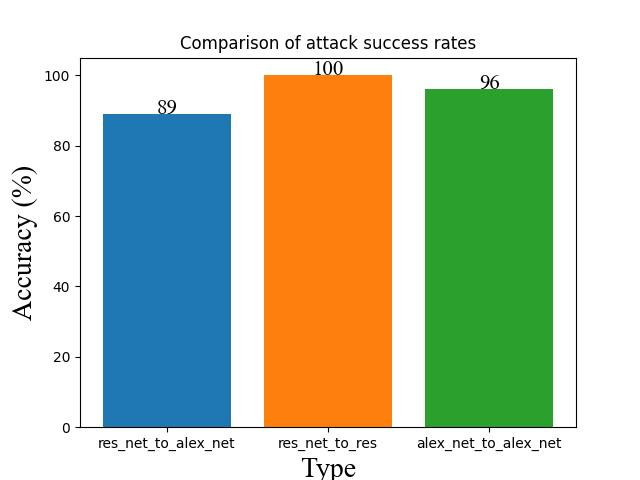
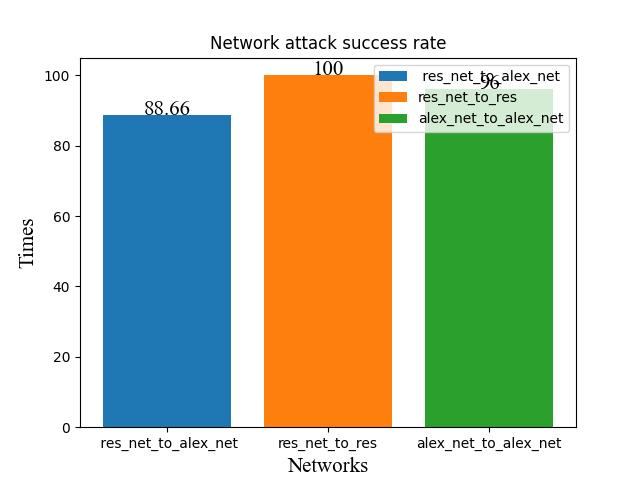
完全代码

diff --git a/venv/direct_disturbances/net_2/net2_predict.py b/venv/direct_disturbances/net_2/net2_predict.py
@@ -1,6 +1,5 @@
 import matplotlib.pyplot as plt
 import numpy as np
-import pylab as pl
 from torchvision import models
 import torchvision
 import torch
@@ -9,9 +8,8 @@ from torchvision import transforms
 from PIL import Image
 import cv2
 import time
-from venv.direct_disturbances.image_process import matrix_to_image
-import torchvision.transforms as T
-import os
+import torch.nn.functional as F
+from torch.autograd import Variable
 
 
 warnings.filterwarnings('ignore')
@@ -33,8 +31,8 @@ transform = transforms.Compose([
 # alexnet.eval()
 
 # 读取类的标签
-with open(r'D:\Note\Test_Net\venv\direct_disturbances\net_2\imagenet_classes.txt') as f:
-  classes = [line.strip()  for line in f.readlines()]
+with open(r'/mnt/test/venv/direct_disturbances/net_2/imagenet_classes.txt') as f:
+  classes = [line.strip() for line in f.readlines()]
 
 classes_final = []
 
@@ -79,7 +77,7 @@ class alexnet:
             self.model.eval()
 
 
-    def predict(self, img, file_name=" ", flag=False, prob=None):
+    def predict(self, img, file_name=" ", flag=False, prob=None, cam=False):
         """
         进行图片检测
         :param img:
@@ -88,13 +86,14 @@ class alexnet:
         :param prob:
         :return:
         """
+        # 进行图像转换和预处理
+        img = Image.fromarray(np.uint8(img))
+        # 进行判断
         if flag:
             plt.imshow(img)
             plt.title(prob[0] + ':' + str(round(prob[1], 2)))
-            plt.savefig(r'/mnt/test/venv/pso/img_out/' + 'successAlex' + time.strftime('%Y-%m-%d %H:%M:%S', time.localtime(time.time())) + '.jpg')
+            plt.savefig(r'/mnt/test/venv/direct_disturbances/img_out/alex/' + time.strftime('%Y-%m-%d %H_%M_%S', time.localtime(time.time())) + '.jpg')
             return
-        # 进行图像转换和预处理
-        img = Image.fromarray(np.uint8(img))
         # print(img)
         img_t = transform(img).cuda()
         batch_t = torch.unsqueeze(img_t, 0)
@@ -104,17 +103,30 @@ class alexnet:
 
         _, index = torch.max(out, 1)
         percentage = torch.nn.functional.softmax(out, dim=1)[0]
+        if cam == False:
+            return classes[index[0]], percentage[index[0]].item()
+        else:
+            return classes[index[0]], percentage[index[0]].item(), index[0]
 
-        return classes[index[0]], percentage[index[0]].item()
+    def generate_cam(self, img, target_class):
+        # 获取目标类别的得分
+        output = self.model(img)
 
-    def draw_cam(self, img_pth):
+        cam = output[0].detach().cpu().numpy()
+
+        return cam
+
+    def draw_cam(self, img_pth, target_class):
         """
         绘制类间激活热图
         :param img_pth:
         :return:
         """
         img = cv2.imread(img_pth)
-        img = cv2.cvtColor(img, cv2.COLOR_BGR2RGB)
+        if img.shape[-1] != 3:
+            img = cv2.cvtColor(img, cv2.COLOR_GRAY2RGB)
+        else:
+            img = cv2.cvtColor(img, cv2.COLOR_BGR2RGB)
         img = cv2.resize(img, (400, 400))
 
         # Preprocess the image
@@ -125,11 +137,8 @@ class alexnet:
         img_tensor = img_tensor.cuda()
         batch_t = torch.unsqueeze(img_tensor, 0)
         # Run the image through the model
-        output = self.model(batch_t)
 
-        # print(output)
-        # Get the class activation map
-        cam = output[0].detach().cpu().numpy()
+        cam = self.generate_cam(batch_t, target_class)
 
         # Resize the CAM to the original image size
         cam = cv2.resize(cam, (img.shape[1], img.shape[0]))
@@ -142,22 +151,22 @@ class alexnet:
         cam = np.uint8(255 * cam)
         cam = cv2.applyColorMap(cam, cv2.COLORMAP_JET)
         # Overlay the CAM on the original image
-        cam = cv2.addWeighted(img, 1, cam, 0.5, 0)
+        cam = cv2.addWeighted(img, 0.5, cam, 0.5, 0)
 
         # Plot the result
-        self.img_path = r'D:\\Note\\Test_Net\\venv\\direct_disturbances\\img_out\\' + time.strftime('%Y-%m-%d %H_%M_%S', time.localtime(time.time())) + '区间热图.jpg'
+        self.img_path = r'/mnt/test/venv/direct_disturbances/img_heat/alex/' + time.strftime('%Y-%m-%d %H_%M_%S', time.localtime(time.time())) + '区间热图.jpg'
         plt.imshow(cam)
-        plt.title("区间热图")
+        plt.title("Interval heat map")
         plt.savefig(self.img_path)
         self.cam = cam
 
-    def get_importance(self, img_pth):
+    def get_importance(self, img_pth, target_class):
         """
         读取类间激活热图，并且获取
         :param img_pth:
         :return:
         """
-        self.draw_cam(img_pth)
+        self.draw_cam(img_pth, target_class)
         # img = cv2.imread(self.img_path)
         img = cv2.resize(self.cam, (400, 400))
 
@@ -173,9 +182,9 @@ if __name__ == '__main__':
     box_net = alexnet()
     pth = r'D:\Note\Test_Net\venv\pso\img'
     img_pth = r'dog.jpg'
-    # img = convertjpg(img_pth)
-    # img = numpy.asarray(img).copy()
-    # box_net.predict(img, file_name=img_pth, flag=True)
+    img = convertjpg(img_pth)
+    img = np.asarray(img).copy()
+    prob = box_net.predict(img, file_name=img_pth, flag=False,cam=True)
     # box_net.draw_cam(img_pth)
     # for file_name in os.listdir(pth):
     #     # print(file_name)
@@ -185,5 +194,5 @@ if __name__ == '__main__':
     #     # img = Image.open(r'mm.jpeg')
     #     img = numpy.asarray(img).copy()
     #     box_net.predict(img,file_name=file_name,flag=True)
-    print(box_net.get_importance('dog.jpg'))
+    print(box_net.get_importance('dog.jpg', target_class=prob[2]))
 

diff --git a/venv/direct_disturbances/net_1/net1_predict.py b/venv/direct_disturbances/net_1/net1_predict.py
@@ -9,6 +9,8 @@ import time
 from torchvision.models.detection.faster_rcnn import FastRCNNPredictor
 import os
 import warnings
+import torch.nn.functional as F
+from torch.autograd import Variable
 
 from torchvision.transforms import transforms
 
@@ -61,7 +63,7 @@ class resnet50:
         else:
             self.model.eval()
 
-    def predict(self, img, file_name = None, threshold=0.2, flag=False, prob = None, rect_th=3, text_size=1, text_th=3):
+    def predict(self, img, file_name=None, threshold=0.2, flag=False, prob=None, cam=False, rect_th=3, text_size=1, text_th=3):
         """
         进行网络识别预测
         :param img:
@@ -100,6 +102,8 @@ class resnet50:
         pred_class = pred_class[:pred_t + 1]
         # print("pred_class:", pred_class)
         # print("pred_boxes:", pred_boxes)
+        if cam:
+            return str(pred_class[0]), max(pred_score), COCO_INSTANCE_CATEGORY_NAMES.index(pred_class[0])
         if flag == False:
             return str(pred_class[0]), max(pred_score)
 
@@ -116,14 +120,20 @@ class resnet50:
         :param text_th:
         :return:
         """
-        image = img.squeeze(0).permute(1, 2, 0).mul(255).clamp(0, 255).cpu().numpy().astype("uint8")
-        plt.imshow(image)
+        # image = img.squeeze(0).permute(1, 2, 0).mul(255).clamp(0, 255).cpu().numpy().astype("uint8")
+        img = Image.fromarray(np.uint8(img))
+        plt.imshow(img)
         plt.title(prob[0] + ':' + str(round(prob[1], 2)))
-        plt.savefig(r'/mnt/test/venv/pso/img_out/' + 'successRes' + time.strftime('%Y-%m-%d %H:%M:%S', time.localtime(time.time())) + '.jpg')
+        plt.savefig(r'/mnt/test/venv/direct_disturbances/img_out/res/' + time.strftime('%Y-%m-%d %H_%M_%S', time.localtime(time.time())) + '.jpg')
         # plt.show()
         return prob
 
-    def draw_cam(self, img_path, transform=None, visual_heatmap=False, out_layer=None):
+    def get_cam(self, img_tensor, target_class):
+        output = self.model([img_tensor])
+        cam = output[0]['boxes'].detach().cpu().numpy()
+        return cam
+
+    def draw_cam(self, img_path, target_class, transform=None, visual_heatmap=False, out_layer=None):
         """
         绘制热力图
         :param model:
@@ -146,12 +156,8 @@ class resnet50:
         img_tensor = transform(img)
         img_tensor = img_tensor.cuda()
 
-        # Run the image through the model
-        output = self.model([img_tensor])
-
-        # print(output)
         # Get the class activation map
-        cam = output[0]['boxes'].detach().cpu().numpy()
+        cam = self.get_cam(img_tensor, target_class)
 
         # Resize the CAM to the original image size
         cam = cv2.resize(cam, (img.shape[1], img.shape[0]))
@@ -165,20 +171,22 @@ class resnet50:
         cam = cv2.applyColorMap(cam, cv2.COLORMAP_JET)
         # Overlay the CAM on the original image
         cam = cv2.addWeighted(img, 0.5, cam, 0.5, 0)
+        self.cam = cam
+
         # Plot the result
-        self.img_path = r'D:\\Note\\Test_Net\\venv\\direct_disturbances\\img_out\\' + time.strftime('%Y-%m-%d %H_%M_%S', time.localtime(time.time())) + '区间热图.jpg'
+        self.img_path = r'/mnt/test/venv/direct_disturbances/img_heat/res/' + time.strftime('%Y-%m-%d %H_%M_%S', time.localtime(time.time())) + '区间热图.jpg'
         plt.imshow(cam)
         plt.title("Interval heat map")
         plt.savefig(self.img_path)
-        self.cam = cam
 
-    def get_importance(self, img_path):
+
+    def get_importance(self, img_path, target_class):
         """
         读取类间激活热图，并且获取
         :param img_path:
         :return:
         """
-        self.draw_cam(img_path)
+        self.draw_cam(img_path, target_class)
         img = self.cam
         # img = cv2.resize(img, (400, 400))
         # 将RGB图像转换为灰度图像
@@ -193,10 +201,11 @@ class resnet50:
 if __name__ == '__main__':
     img = Image.open(r"mm.jpeg")
     local_net = resnet50()
+    prob = local_net.predict(img, cam=True)
     # matrix = np.asarray(img).copy()
     # img = img + np.zeros(matrix.shape)
     # print(img == matrix)
 
     # print(local_net.predict(img, flag=False))
     # print(local_net.e)
-    print(local_net.get_importance(r'dog.jpg'))
+    print(local_net.get_importance(r'dog.jpg', target_class=prob[2]))

diff --git a/venv/direct_disturbances/disturbances_run.py b/venv/direct_disturbances/disturbances_run.py
@@ -15,7 +15,7 @@ class attack:
     def __init__(self):
         pass
 
-    def network_attack(self, box, pth):
+    def network_attack(self, local, box, pth):
         """
         传入攻击模型进行攻击的方法
         :param box: 黑盒模型
@@ -28,9 +28,9 @@ class attack:
         # 转换类型
         # data = data.astype(np.float32)
         # 生成模型对象，并且进行初始化图像判别
-        prob = box.predict(data)
-        weight = box.get_importance(pth)
-        p = disturbance(2, 2, 2, 10, 20, 200, prob[0], prob[1], box, data, weight, flag=True)
+        prob = box.predict(data, cam=True)
+        weight = local.get_importance(pth, target_class=prob[2])
+        p = disturbance(2, 2, 2, 10, 20, 100, prob[0], prob[1], local, box, data, weight, flag=True)
         return p.pso()
 
     def circular_attack(self, name, url, box):
@@ -44,7 +44,11 @@ class attack:
         success_time = 0  # 记录成功次数
         # 遍历过程出现异常记录异常的图片信息
         try:
+            i = 0
             for file_name in os.listdir(pth):
+                i += 1
+                if i < 92:
+                    continue
                 # 遍历文件夹获取文件路径
                 img_pth = ('/'.join([url, file_name]))
                 # 获取结果
@@ -86,12 +90,12 @@ class attack:
         alex_success_times = 0
 
         # 进行网络攻击
-        name = "res"
-        res_success_times, res_visit_times = self.circular_attack(name, url, res_net)
-
-        with open('record.txt', 'a', encoding='utf-8') as f:  # 使用with open()新建对象f
-            f.write('平均res_success' + str(res_success_times) + '\n')
-            f.write('平均res_visit' + str(res_visit_times) + '\n')
+        # name = "res"
+        # res_success_times, res_visit_times = self.circular_attack(name, url, res_net)
+        #
+        # with open('record.txt', 'a', encoding='utf-8') as f:  # 使用with open()新建对象f
+        #     f.write('平均res_success' + str(res_success_times) + '\n')
+        #     f.write('平均res_visit' + str(res_visit_times) + '\n')
 
         name = "alex"
         alex_success_times, alex_visit_times = self.circular_attack(name, url, alex_net)

diff --git a/venv/pso/test.py b/venv/pso/test.py
@@ -1,5 +1,25 @@
+import matplotlib.pyplot as plt
+
+
 if __name__ == '__main__':
-    k = []
-    k.append((1, 2))
-    k.append((1, 2))
-    print(k)
+    scale_ls = range(3)
+    index_ls = [' res_net_to_alex_net', 'res_net_to_res', 'alex_net_to_alex_net']
+    val_ls = [88.66, 100, 96]
+    for i in scale_ls:
+        plt.bar(index_ls[i], val_ls[i], label=index_ls[i])
+    plt.text(index_ls[0], val_ls[0], val_ls[0], ha='center', fontproperties='Times New Roman', fontsize=15, zorder=10)
+    plt.text(index_ls[1], val_ls[1], val_ls[1], ha='center', fontproperties='Times New Roman', fontsize=15, zorder=10)
+    plt.text(index_ls[2], val_ls[2], val_ls[2], ha='center', fontproperties='Times New Roman', fontsize=15, zorder=10)
+    plt.title('Network attack success rate')
+    plt.xlabel("Networks", fontproperties='Times New Roman', fontsize=15)
+    plt.ylabel("Times", fontproperties='Times New Roman', fontsize=15)
+    plt.legend()
+    plt.savefig('img_data/success1.jpg')
+
+    # val_ls = [17.41, res_net_to_res_net_visit, alex_net_to_alex_net_visit]
+    # plt.bar(scale_ls, val_ls)  # 进行绘图
+    # plt.xticks(scale_ls, index_ls)  # 设置坐标字
+    # plt.xlabel('网络关系')
+    # plt.ylabel('平均访问次数')
+    # plt.title('平均访问次数对比')
+    # plt.savefig('img_data/visit1.jpg')

diff --git a/venv/direct_disturbances/test.py b/venv/direct_disturbances/test.py
@@ -1,7 +1,25 @@
-import numpy as np
+import matplotlib.pyplot as plt
+
 
 if __name__ == '__main__':
-    a = np.zeros((2, 2))
-    b = np.random.random((2, 2))
-    b[a == 0] = 0
-    print(b)
+    scale_ls = range(2)
+    index_ls = ['resnet', 'alexnet']
+    color = [None, 'orange']
+    val_ls = [100, 52]
+    for i in scale_ls:
+        plt.bar(index_ls[i], val_ls[i], label=index_ls[i])
+    plt.text(index_ls[0], val_ls[0], val_ls[0], ha='center', fontproperties='Times New Roman', fontsize=15, zorder=10)
+    plt.text(index_ls[1], val_ls[1], val_ls[1], ha='center', fontproperties='Times New Roman', fontsize=15, zorder=10)
+    plt.title('Network attack success rate')
+    plt.xlabel("Networks", fontproperties='Times New Roman', fontsize=15)
+    plt.ylabel("Accuracy (%)", fontproperties='Times New Roman', fontsize=15)
+    plt.legend()
+    plt.savefig('img_data/success2.jpg')
+
+    # val_ls = [17.41, res_net_to_res_net_visit, alex_net_to_alex_net_visit]
+    # plt.bar(scale_ls, val_ls)  # 进行绘图
+    # plt.xticks(scale_ls, index_ls)  # 设置坐标字
+    # plt.xlabel('网络关系')
+    # plt.ylabel('平均访问次数')
+    # plt.title('平均访问次数对比')
+    # plt.savefig('img_data/visit1.jpg')

diff --git a/venv/direct_disturbances/disturbances.py b/venv/direct_disturbances/disturbances.py
@@ -9,7 +9,7 @@ class disturbance:
     """
     进行子空间采样攻击类
     """
-    def __init__(self, w, c1, c2, k, size, times, kind, prob, model, image, weight, flag):
+    def __init__(self, w, c1, c2, k, size, times, kind, prob, local, model, image, weight, flag):
         """
         进行类初始化
         :param model: 指向攻击模型
@@ -44,6 +44,7 @@ class disturbance:
         self.final_best_position = None
         self.final_best_fitness = 0
         self.success = []
+        self.local = local
 
 
     def l2(self, x):
@@ -233,7 +234,7 @@ class disturbance:
                 times += 1
 
             # 使用适应度函数最好的进行迭代攻击
-            s = self.model.predict(self.p_best_position)
+            s = self.local.predict(self.p_best_position)
             times += 1
             # 进行攻击判断
             if self.distinguish(s):
